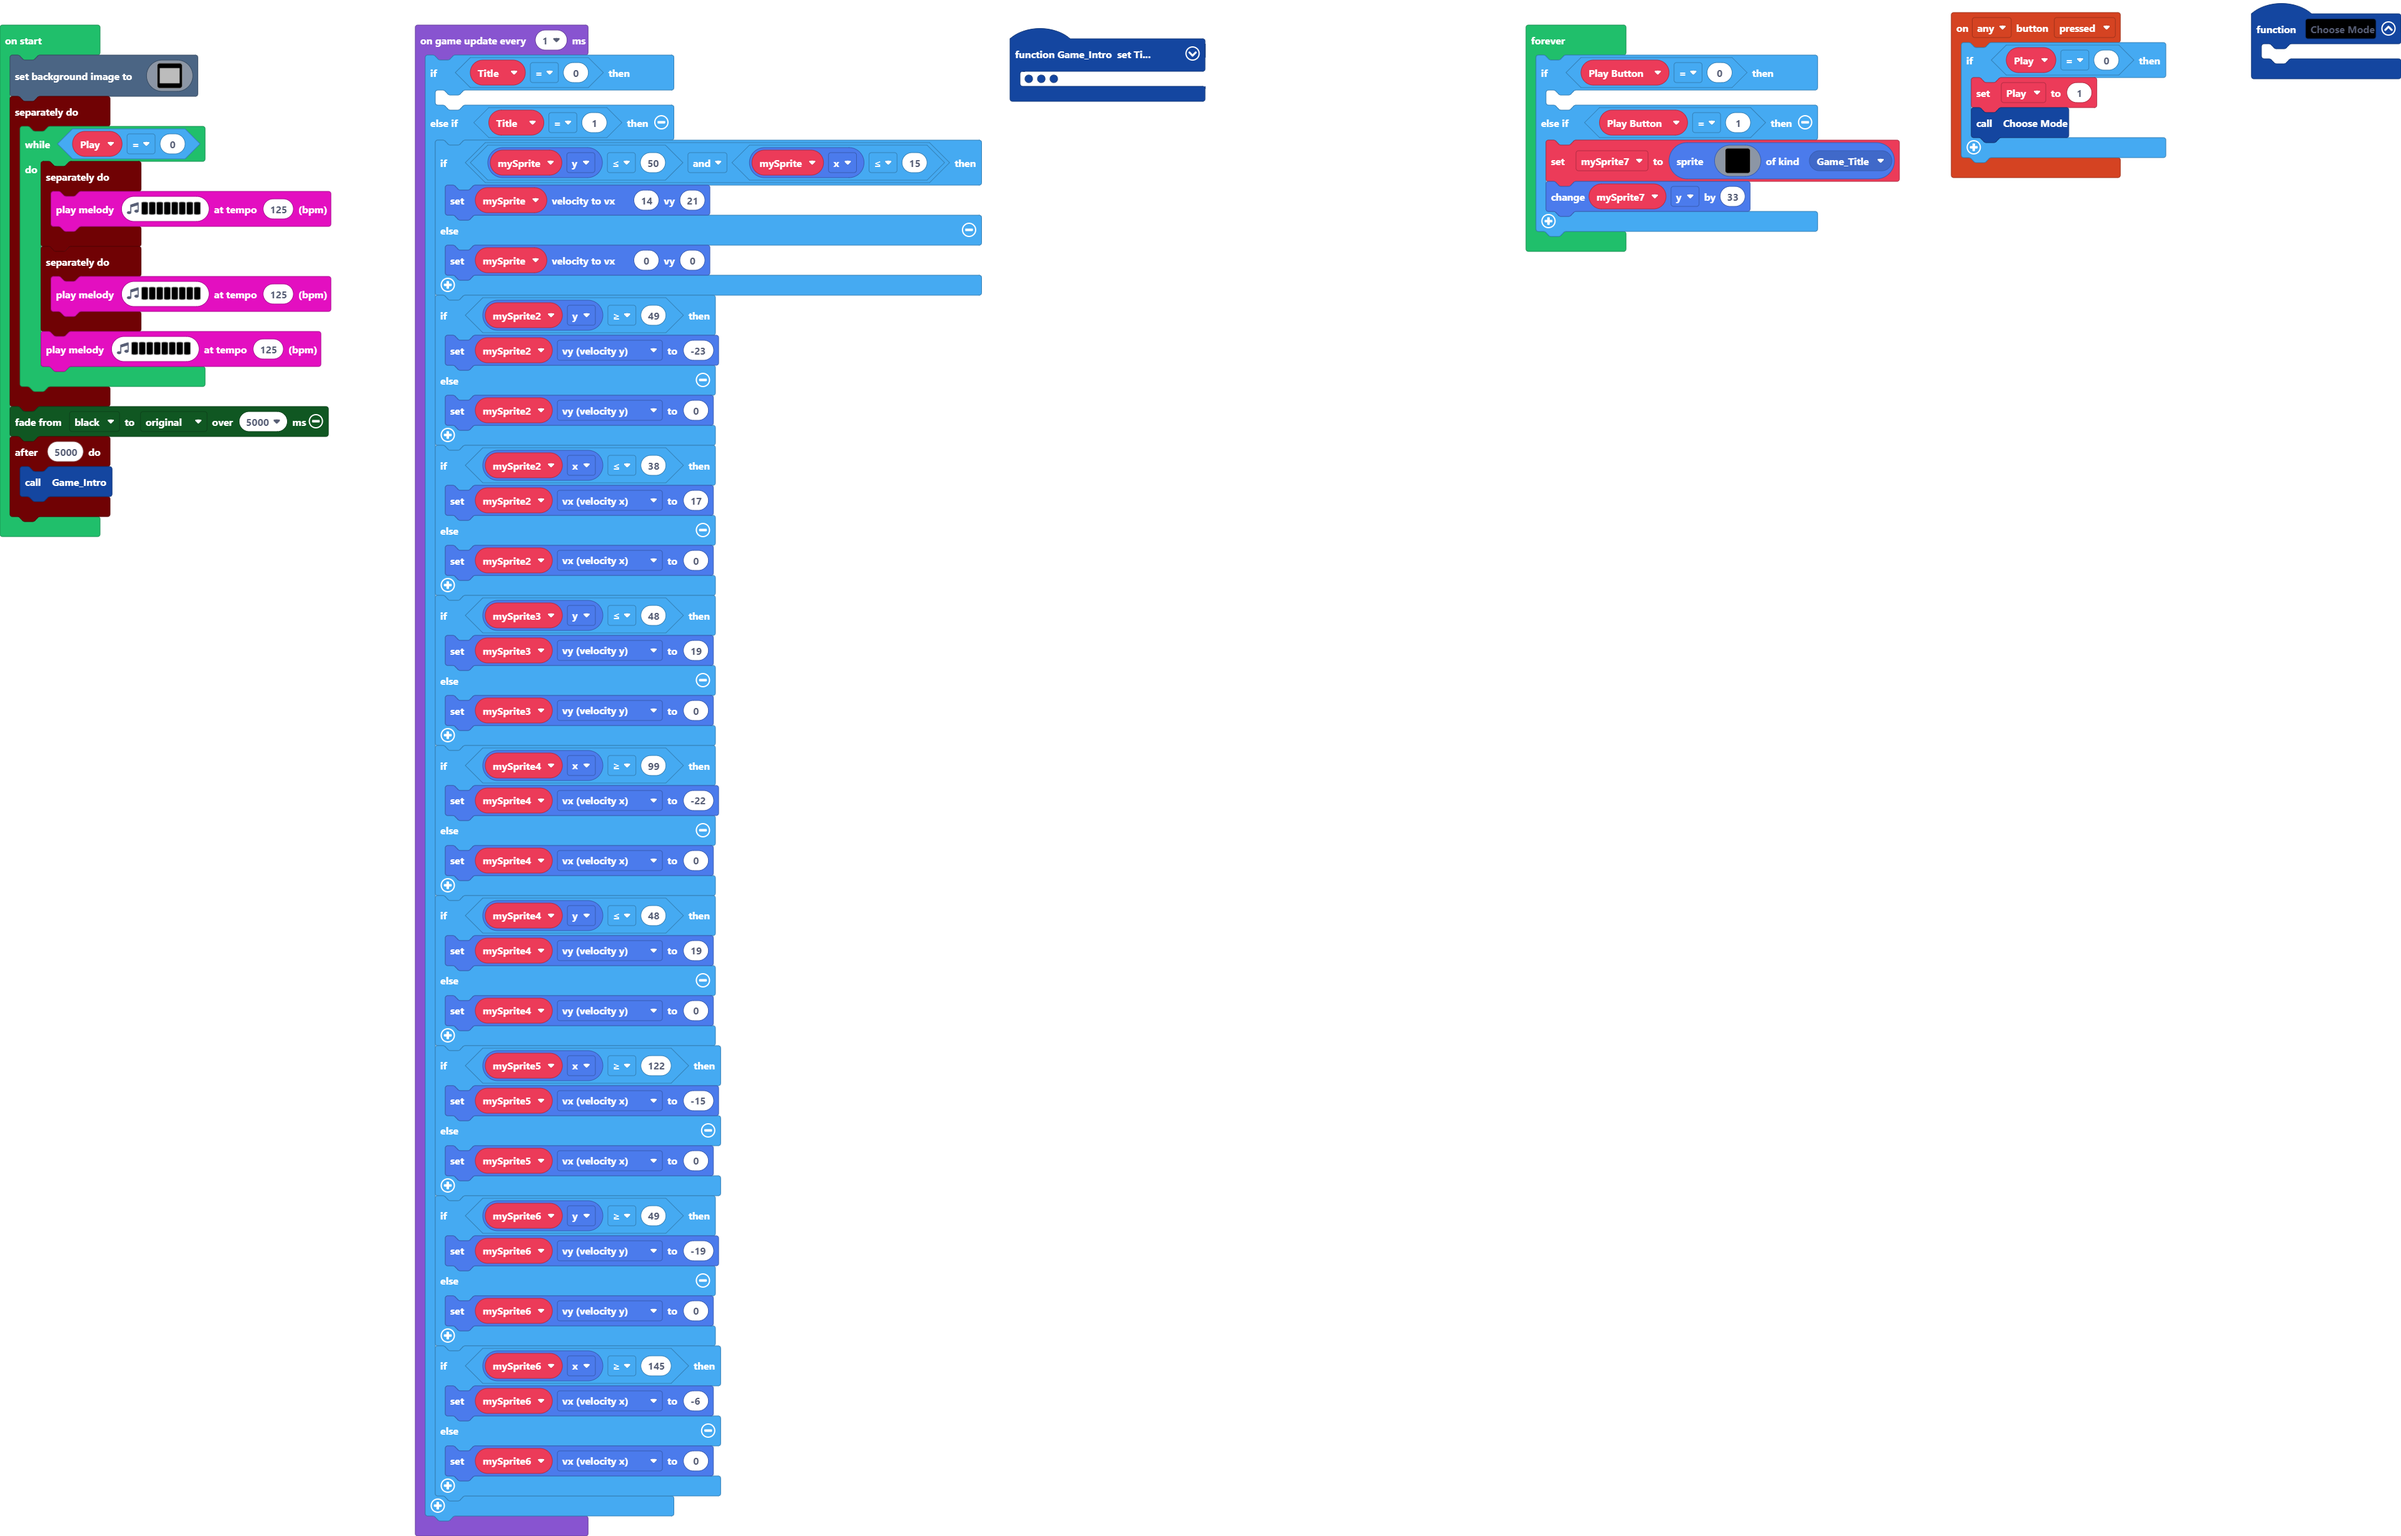
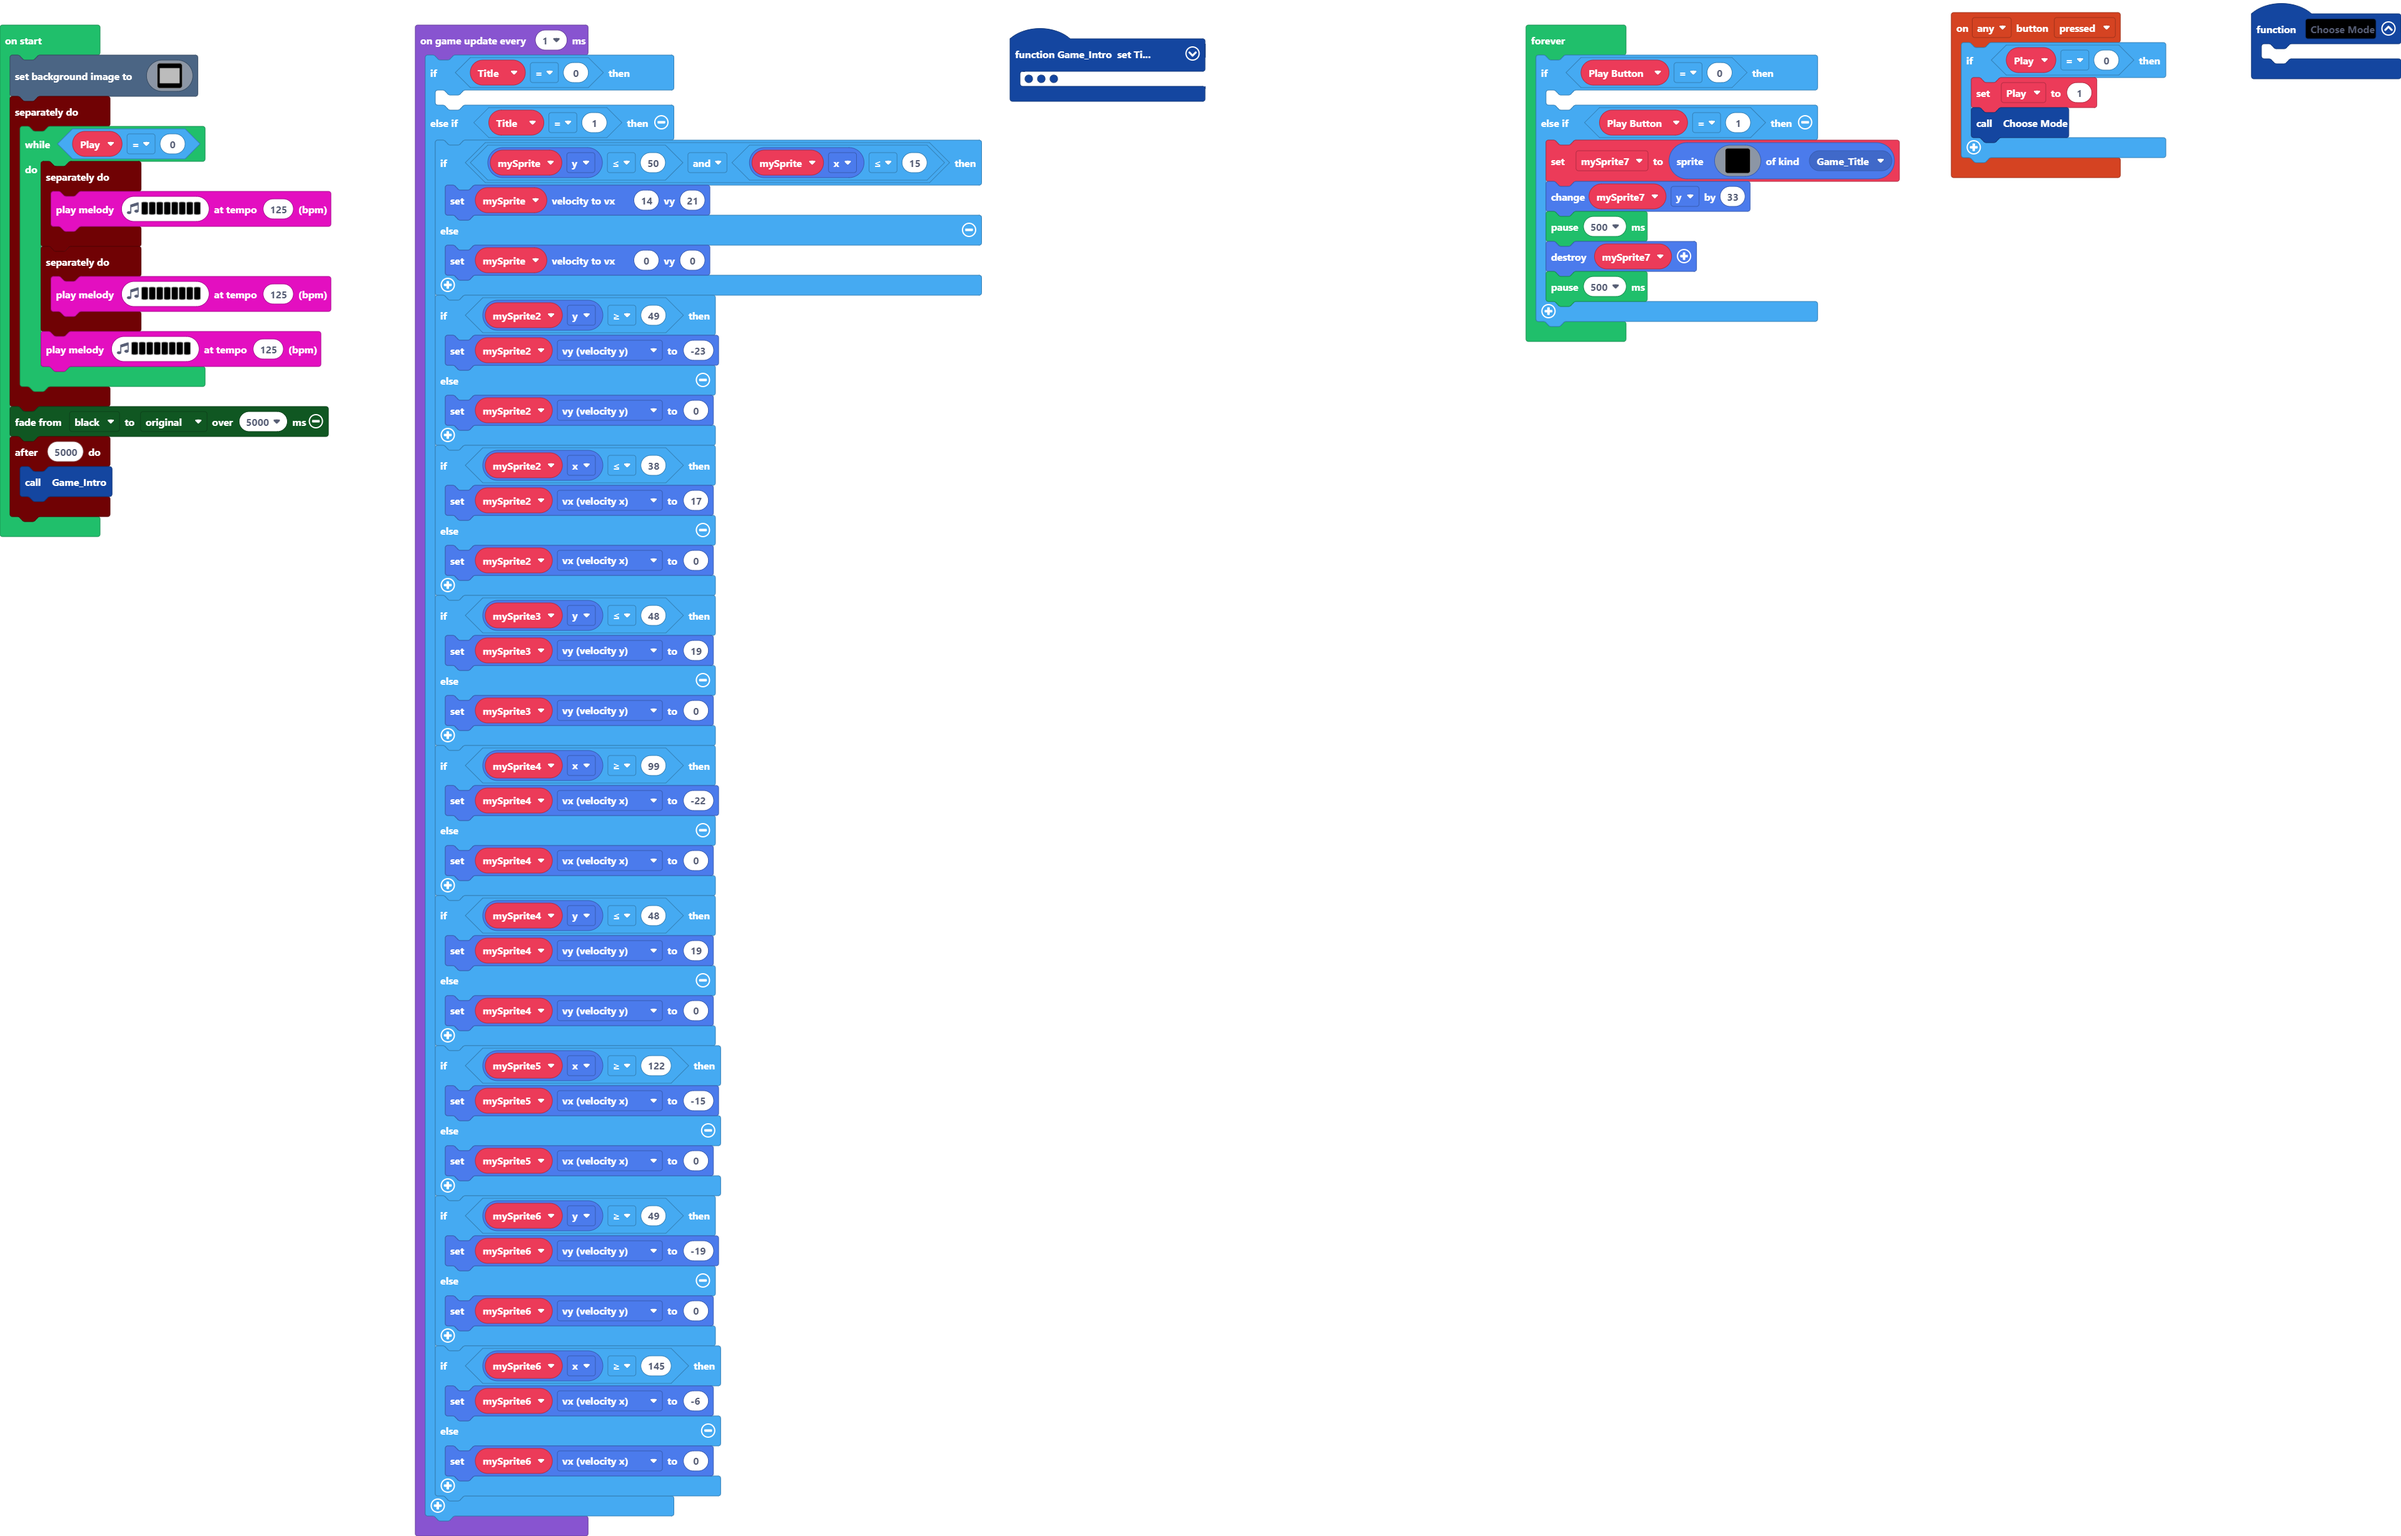
Update main.blocks, main.ts

Changed region(s): [[0.62, 0.1238, 0.7749, 0.2476]]

diff --git a/main.ts b/main.ts
@@ -349,5 +349,8 @@ forever(function () {
             ...........................................................
             `, SpriteKind.Game_Title)
         mySprite7.y += 33
+        pause(500)
+        mySprite7.destroy()
+        pause(500)
     }
 })
